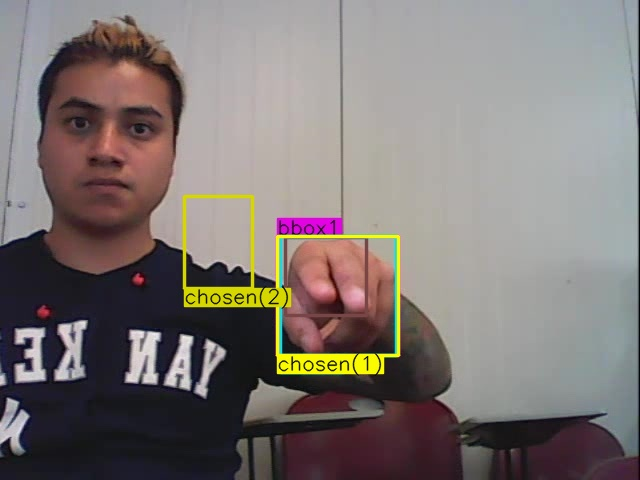
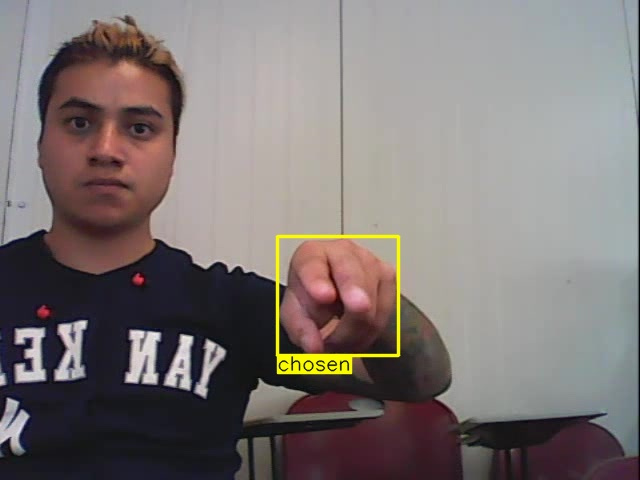
bugs_v0

Changed region(s): [[0.2812, 0.375, 0.625, 0.7812]]

diff --git a/box_selectc.py b/box_selectc.py
@@ -362,7 +362,6 @@ class UI(QMainWindow):
 					self.radioB1.setChecked(True)
 		if e.key() == Qt.Key_W:
 			if self.radioB2.isVisible():
-				self.radioB2.setChecked(True)
 				if self.radioB2.isChecked():
 					if self.radS1.isVisible():
 						self.rotate_checked()
@@ -452,8 +451,8 @@ class UI(QMainWindow):
 		img_ = os.path.join(self.img_path, os.path.basename(txt_).replace(self.ext, '.jpg'))
 		if os.path.exists(txt_path):
 			txt_l = self.read_txt(txt_path)
-			self.plotter2(txt_l , True, idx=-1, img_path=img_, label_="chosen") 
-			self.label_msg.setText("BBOX Chosen")
+			self.plotter2(txt_l , True, idx=-1, img_path=img_, label_="chosen")
+			self.label_msg.setText("{} BBOX Chosen".format(len(txt_l)))
 			self.buttonDelete.setVisible(True)
 			self.set_idc(1)
 		else:
@@ -470,6 +469,7 @@ class UI(QMainWindow):
 		self.radS2.setVisible(False)
 		self.radS3.setVisible(False)
 		self.radS4.setVisible(False)
+		self.buttonAll.setVisible(False)
 		self.text_chosen = txt_l
 		self.choose_change = 0
 
@@ -600,6 +600,10 @@ class UI(QMainWindow):
 		self.radS2.setVisible(False)
 		self.radS3.setVisible(False)
 		self.radS4.setVisible(False)
+		self.radS1.setChecked(False)
+		self.radS2.setChecked(False)
+		self.radS3.setChecked(False)
+		self.radS4.setChecked(False)
 		self.buttonAll.setVisible(False)
 		self.radioNo.setChecked(True)
 		self.sp_H1.setVisible(False)
@@ -632,8 +636,9 @@ class UI(QMainWindow):
 		self.label_frame.setText(os.path.basename(img_))
 		txt_path = os.path.join(self.sele_path, os.path.basename(txt_))
 		if os.path.exists(txt_path):
-			self.plotter2(self.read_txt(txt_path), True)
-			self.label_msg.setText("BBOX Chosen")
+			txt_l = self.read_txt(txt_path)
+			self.plotter2(txt_l, True)
+			self.label_msg.setText("{} BBOX Chosen".format(len(txt_l)))
 			self.buttonDelete.setVisible(True)
 			self.set_idc(1)
 
